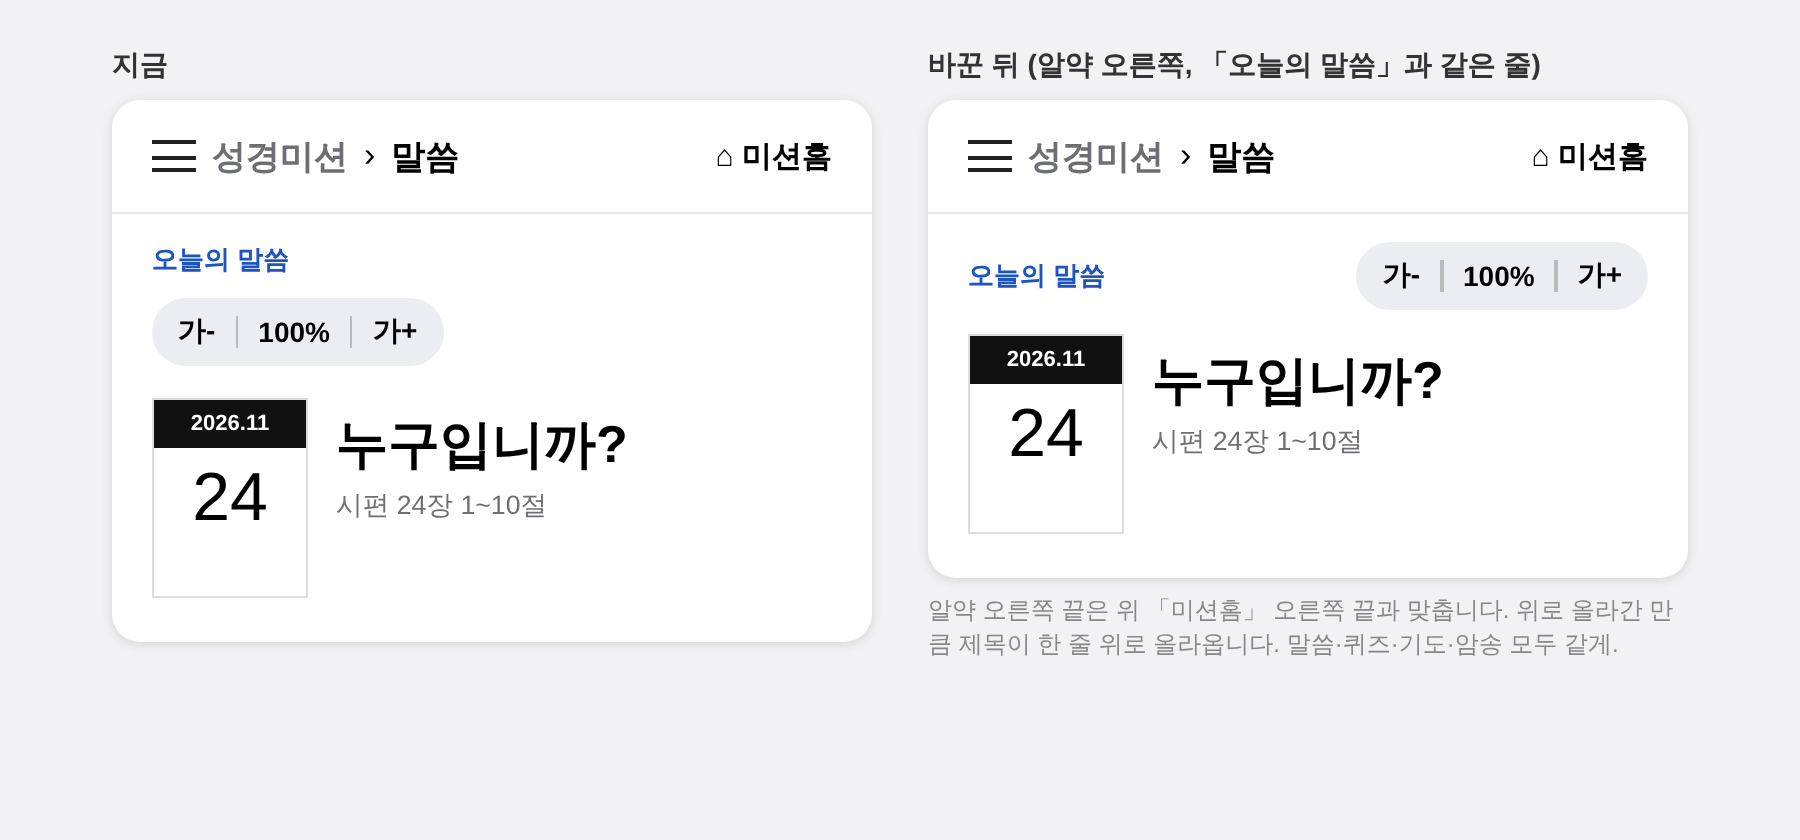
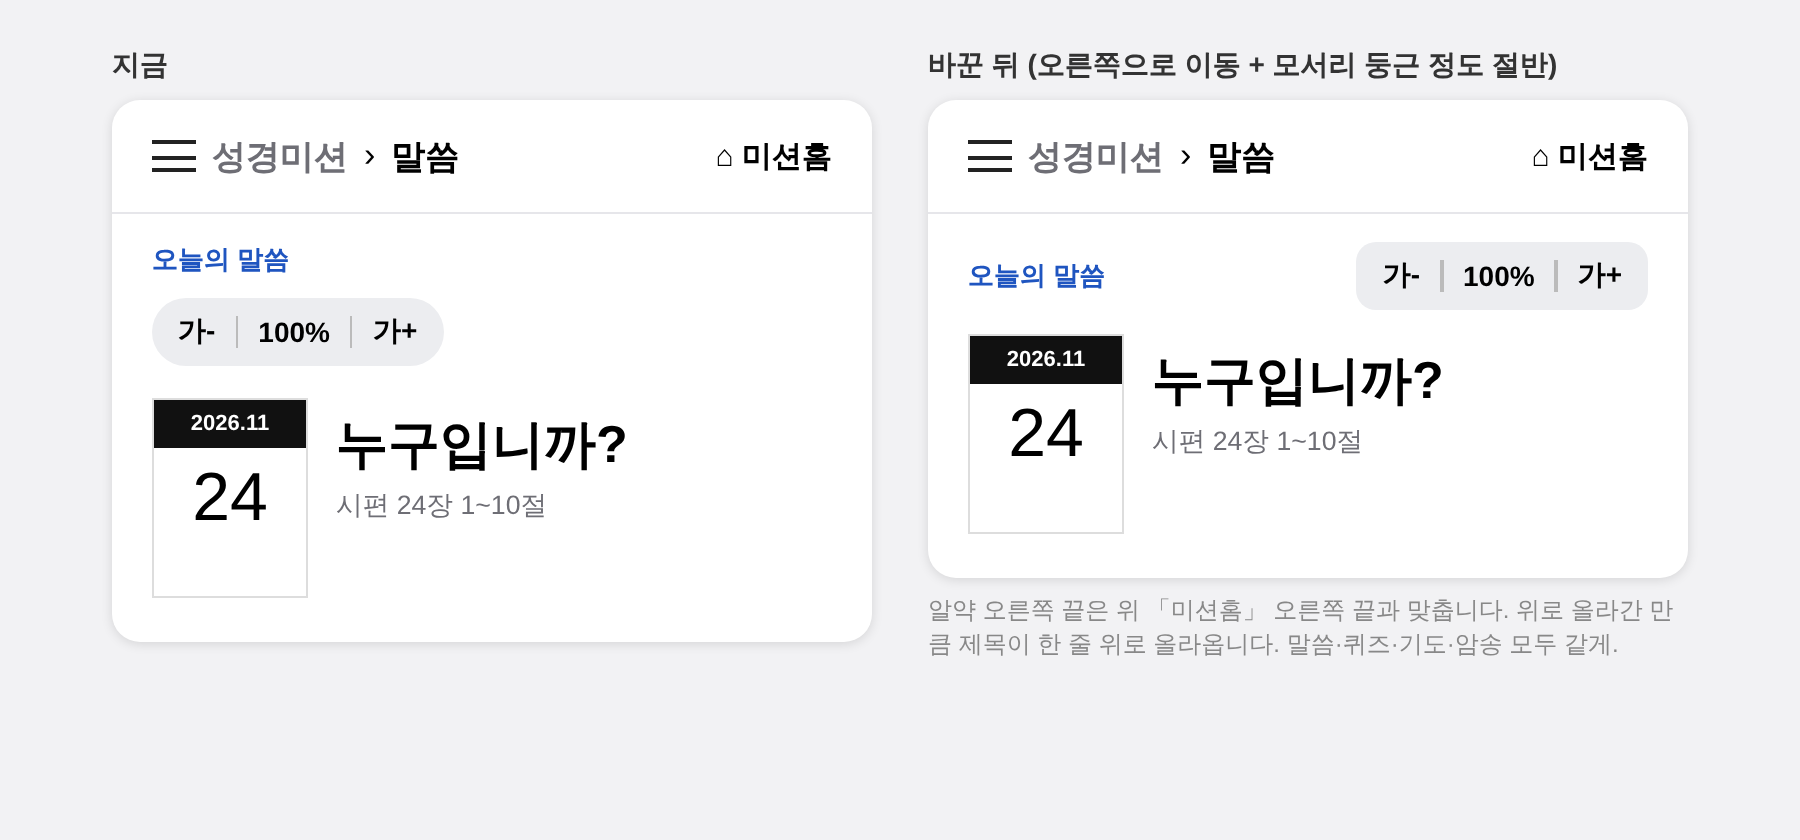
시안: 글자 크기 알약 모서리 절반
Claude-Session: https://claude.ai/code/session_01CkiacwM9TYu6hxWXs6k4wP

Changed region(s): [[0.56, 0.0619, 0.8711, 0.0929]]

diff --git a/docs/design/시안/글자크기-알약-오른쪽.html b/docs/design/시안/글자크기-알약-오른쪽.html
@@ -13,14 +13,14 @@ body{margin:0;padding:24px;background:#f2f2f4;font-family:Pretendard,"Noto Sans 
 .row{display:flex;justify-content:space-between;align-items:center}
 .t{display:flex;gap:14px;padding:16px 20px 22px}.d{width:76px;height:98px;border:1.5px solid #ddd;text-align:center}.d b{display:block;background:#111;color:#fff;font-size:11px;padding:6px 0}.d u{display:block;text-decoration:none;font-size:34px;margin-top:6px}
 .t h1{margin:6px 0 4px;font-size:26px}.t small{color:#6e6e75}
-.n{font-size:12px;color:#888;margin-top:8px}
+.fs.r{border-radius:10px}.n{font-size:12px;color:#888;margin-top:8px}
 </style>
 <div class="col"><p class="lb">지금</p><div class="ph">
 <div class="bar"><div class="l"><i class="bg"></i><span class="p">성경미션</span><span>›</span><span class="c">말씀</span></div><span class="h">⌂ 미션홈</span></div>
 <div class="hd"><div class="k">오늘의 말씀</div><div style="margin:10px 0 0"><span class="fs"><span>가-</span><i></i><span>100%</span><i></i><span>가+</span></span></div></div>
 <div class="t"><div class="d"><b>2026.11</b><u>24</u></div><div><h1>누구입니까?</h1><small>시편 24장 1~10절</small></div></div></div></div>
-<div class="col"><p class="lb">바꾼 뒤 (알약 오른쪽, 「오늘의 말씀」과 같은 줄)</p><div class="ph">
+<div class="col"><p class="lb">바꾼 뒤 (오른쪽으로 이동 + 모서리 둥근 정도 절반)</p><div class="ph">
 <div class="bar"><div class="l"><i class="bg"></i><span class="p">성경미션</span><span>›</span><span class="c">말씀</span></div><span class="h">⌂ 미션홈</span></div>
-<div class="hd row"><div class="k">오늘의 말씀</div><span class="fs"><span>가-</span><i></i><span>100%</span><i></i><span>가+</span></span></div>
+<div class="hd row"><div class="k">오늘의 말씀</div><span class="fs r"><span>가-</span><i></i><span>100%</span><i></i><span>가+</span></span></div>
 <div class="t" style="padding-top:12px"><div class="d"><b>2026.11</b><u>24</u></div><div><h1>누구입니까?</h1><small>시편 24장 1~10절</small></div></div></div>
 <p class="n">알약 오른쪽 끝은 위 「미션홈」 오른쪽 끝과 맞춥니다. 위로 올라간 만큼 제목이 한 줄 위로 올라옵니다. 말씀·퀴즈·기도·암송 모두 같게.</p></div>
